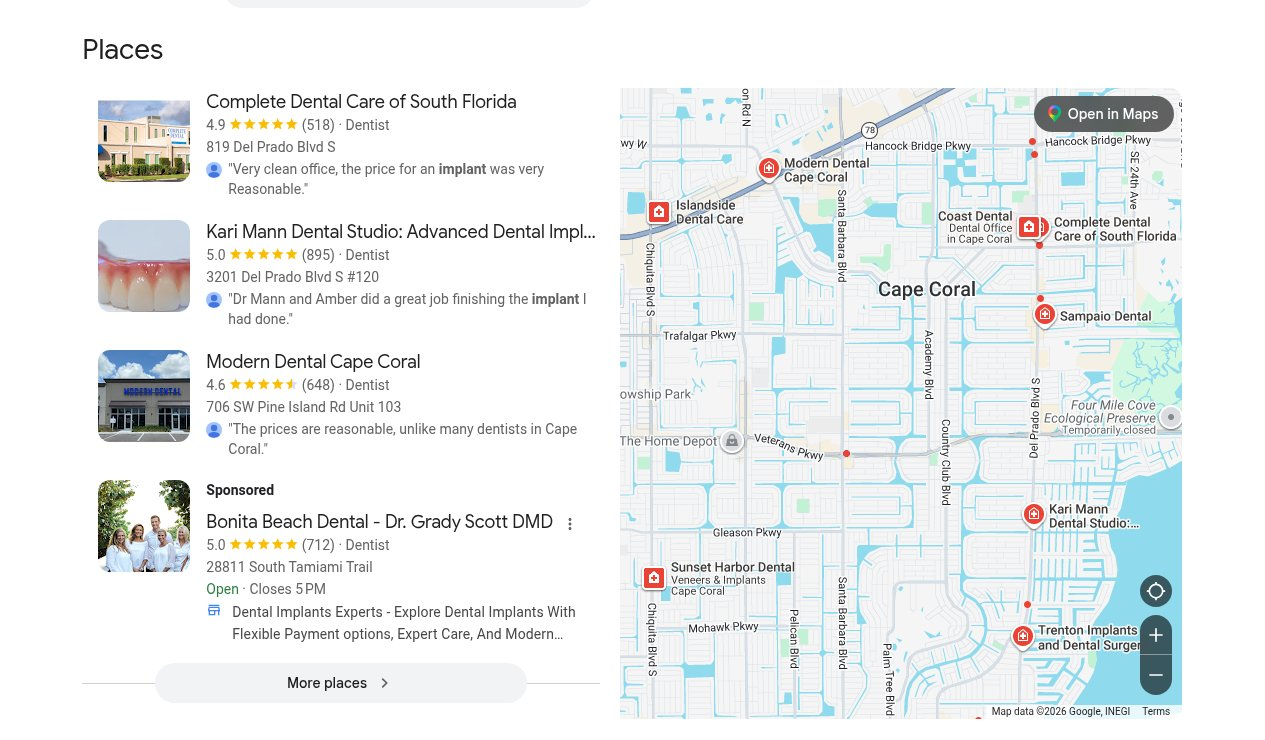
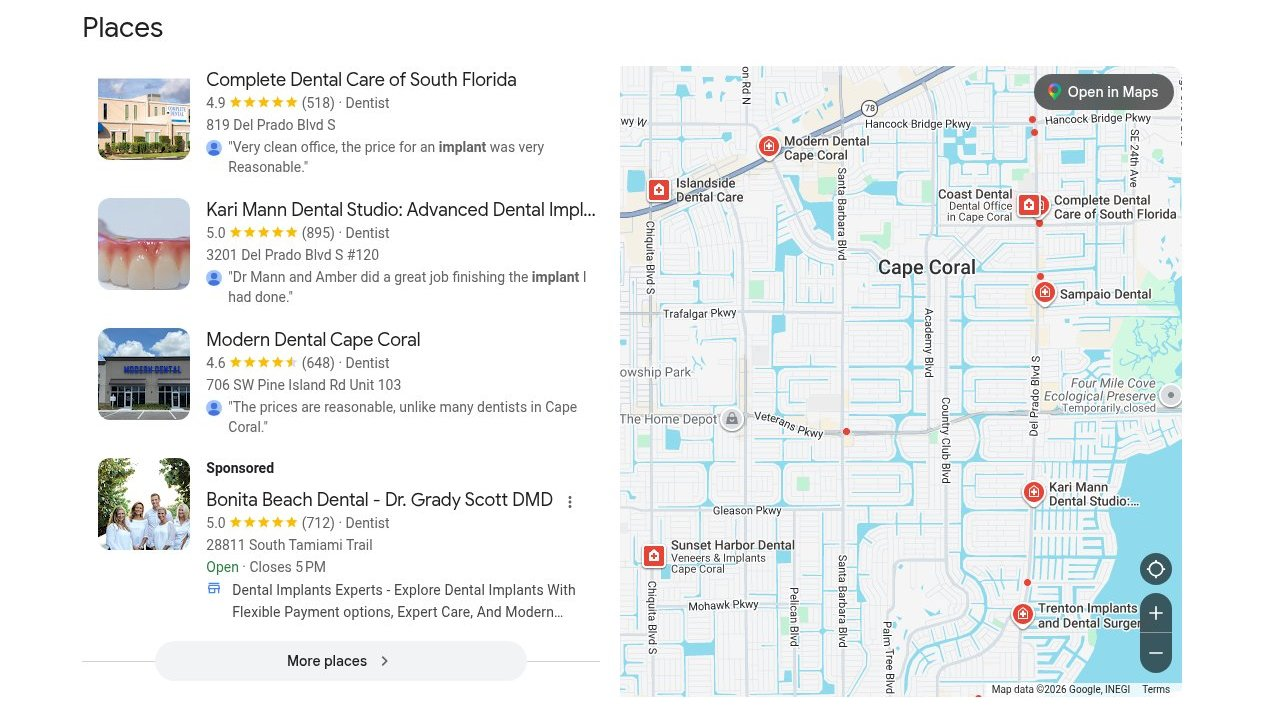
Kari Mann note: plain-language screenshot labels

Changed region(s): [[0.4933, 0.0919, 0.9557, 0.9805], [0.0617, 0.0306, 0.4625, 0.8886], [0.2158, 0.9192, 0.3083, 0.9499]]

diff --git a/kari-mann-gbp-notes.html b/kari-mann-gbp-notes.html
@@ -204,20 +204,20 @@
   <div class="shots" style="grid-template-columns: 1fr 1fr; max-width: 640px;">
     <figure>
       <div class="fig-title">"best dentist in cape coral" on a phone</div>
-      <div class="fig-sub">September 29, 2026, location set at the office</div>
+      <div class="fig-sub">Searched from the office, September 29, 2026</div>
       <div class="shot-img"><img src="img/kari-mann-gbp/proof-best-dentist-phone.jpg" alt="Phone results for best dentist in cape coral: a sponsored listing, then Kari Mann Dental Studio as the first unpaid listing"></div>
       <figcaption>One sponsored listing, then Kari Mann Dental Studio as the first unpaid listing.</figcaption>
     </figure>
     <figure>
       <div class="fig-title">"dental implants cape coral" on a phone</div>
-      <div class="fig-sub">September 29, 2026, location set at the office</div>
+      <div class="fig-sub">Searched from the office, September 29, 2026</div>
       <div class="shot-img"><img src="img/kari-mann-gbp/proof-implants-phone.jpg" alt="Phone results for dental implants cape coral: Kari Mann Dental Studio listed first in the map results"></div>
       <figcaption>Kari Mann Dental Studio is the first listing in the map results.</figcaption>
     </figure>
   </div>
   <figure style="max-width:720px">
     <div class="fig-title">"dental implants cape coral" on a desktop</div>
-    <div class="fig-sub">September 29, 2026, placed in Cape Coral by internet connection</div>
+    <div class="fig-sub">Searched from elsewhere in Cape Coral, September 29, 2026</div>
     <div class="shot-img"><img src="img/kari-mann-gbp/proof-implants-desktop.jpg" alt="Desktop results for dental implants cape coral: Kari Mann Dental Studio second in the map results"></div>
     <figcaption>Kari Mann Dental Studio is the second listing in the map results.</figcaption>
   </figure>
